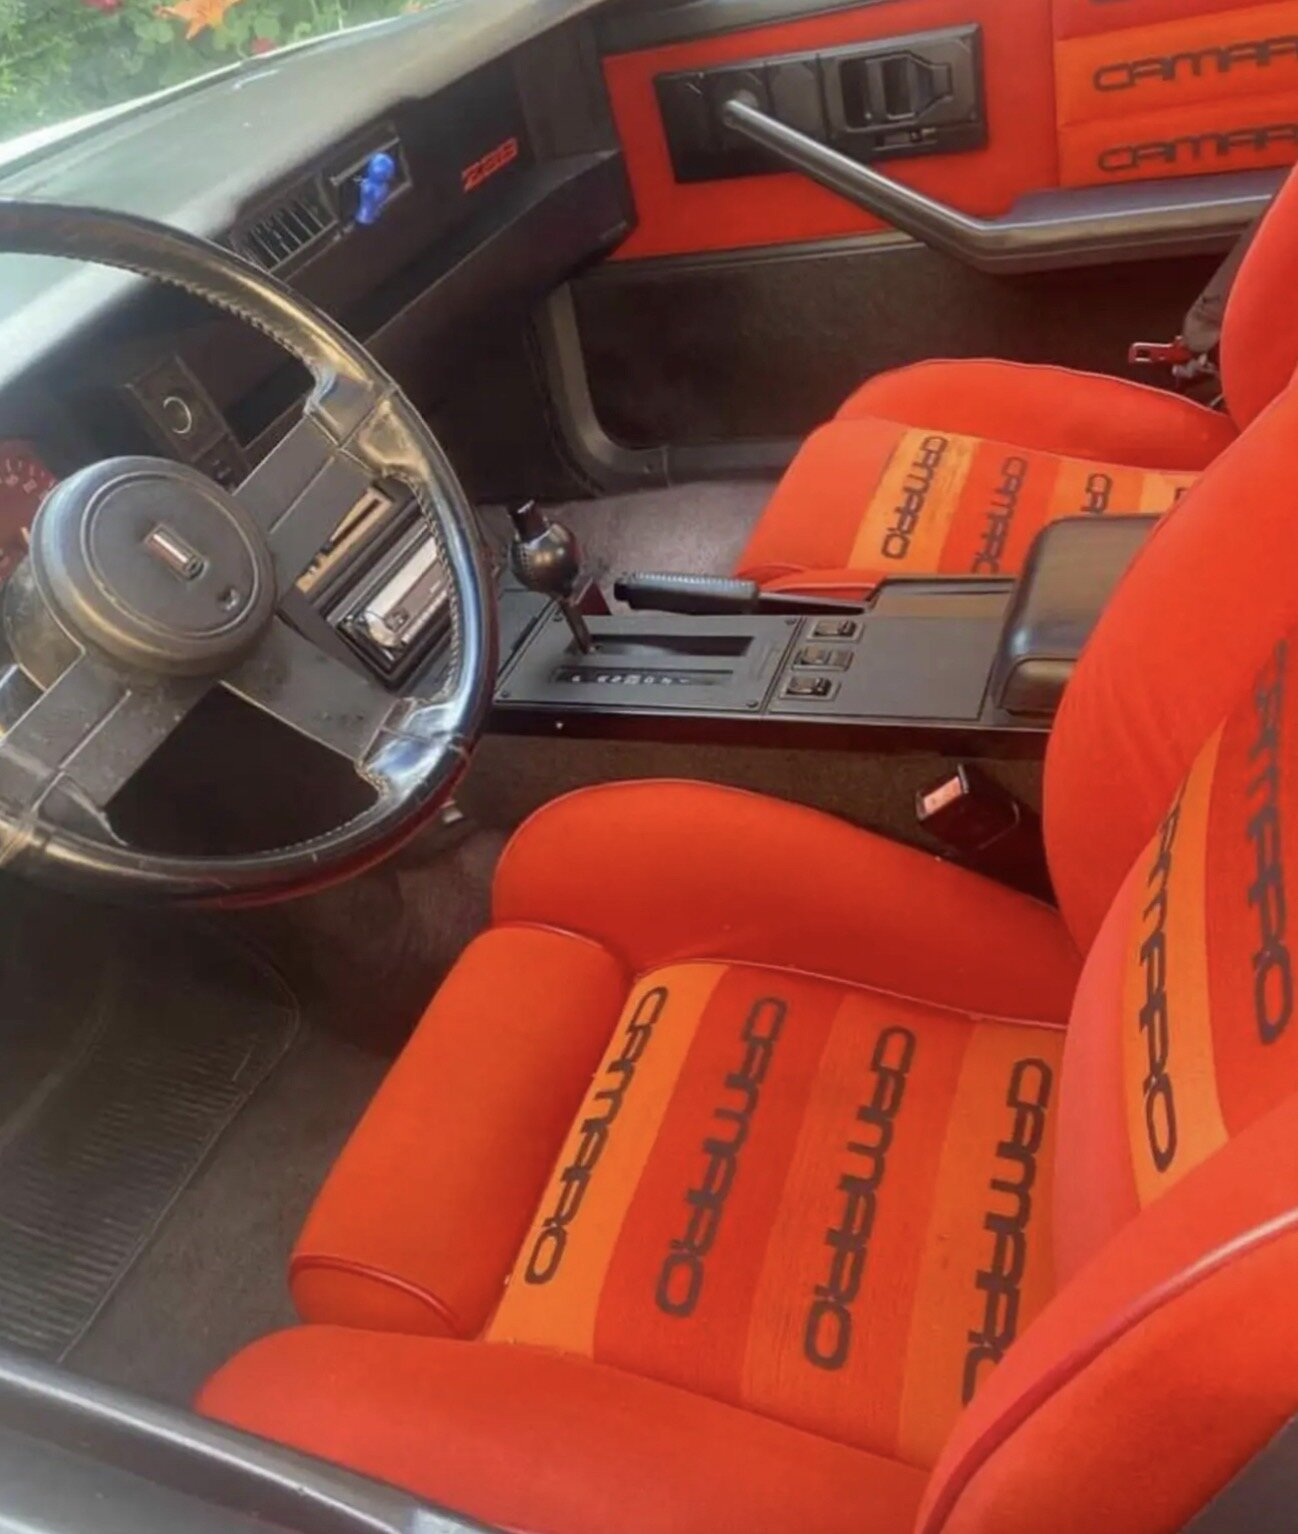
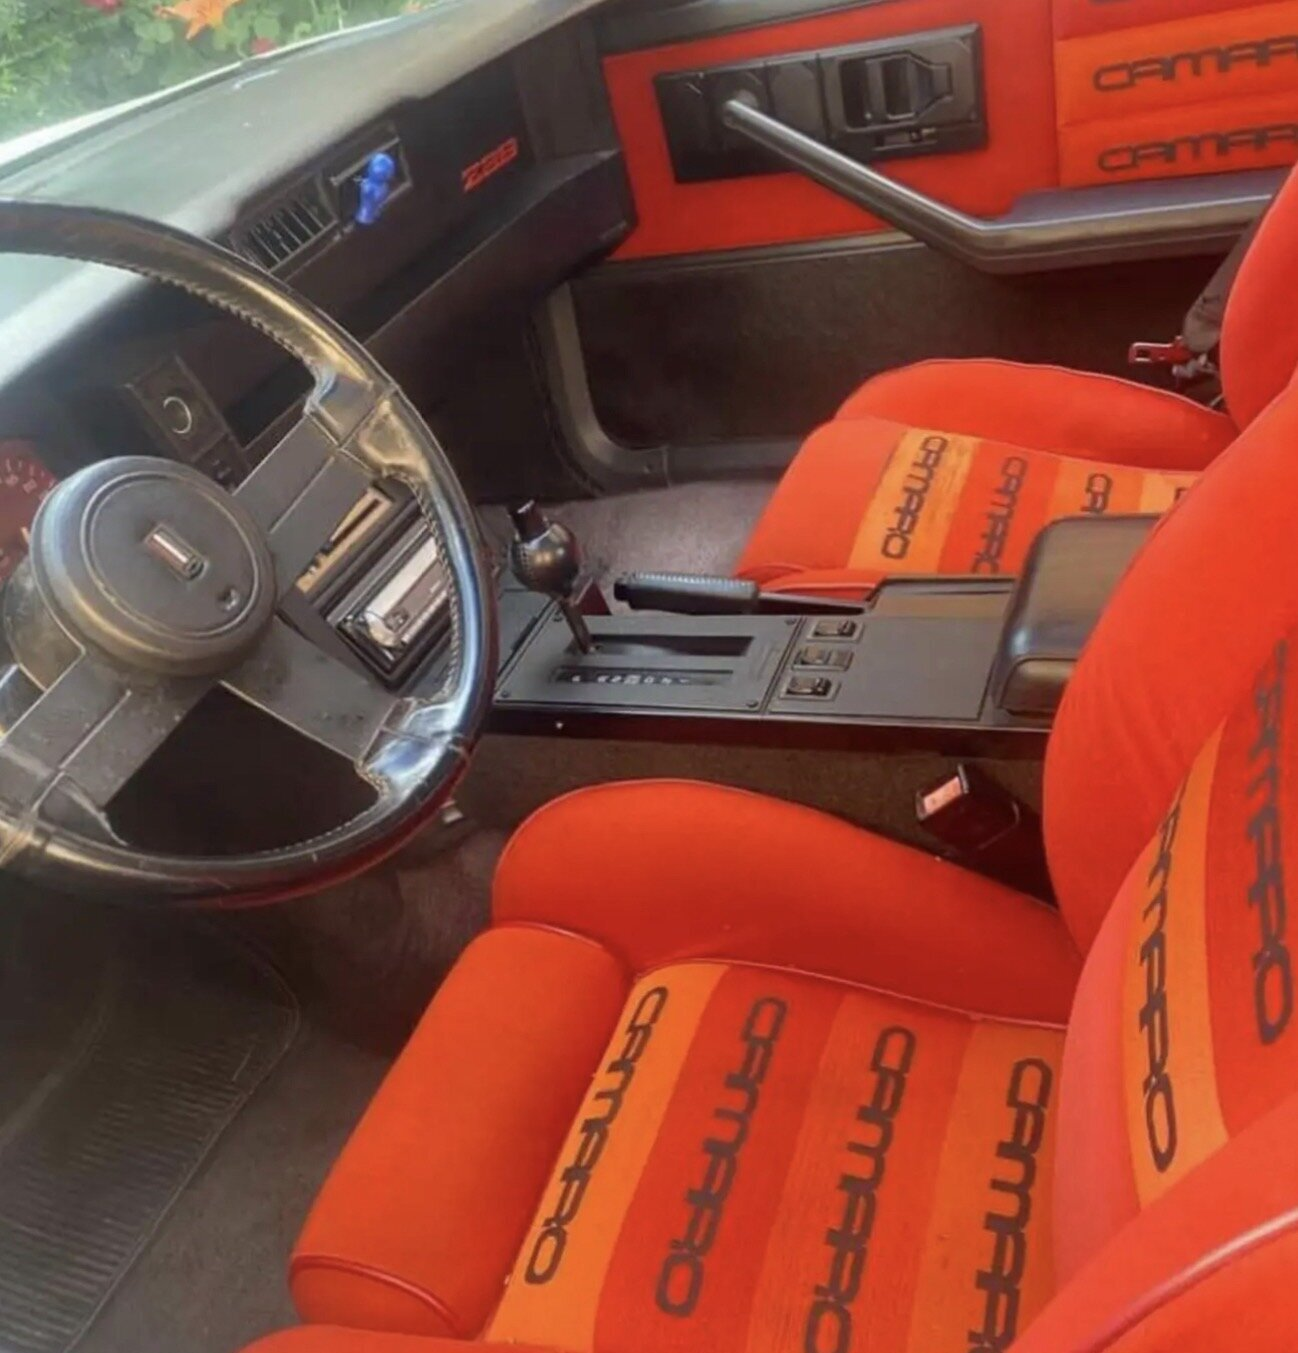
Logs Apr 22: crop front seat photo to match rear height

diff --git a/logs/index.html b/logs/index.html
@@ -318,8 +318,8 @@
         <div class="log-pair">
           <img
             class="zoomable"
-            src="../assets/logs/2025-04-22-01.jpg?v=1"
-            data-full="../assets/logs/2025-04-22-01.jpg?v=1"
+            src="../assets/logs/2025-04-22-01.jpg?v=2"
+            data-full="../assets/logs/2025-04-22-01.jpg?v=2"
             alt="Jenny's front seats — tap to enlarge"
             width="1400"
             height="1050"
